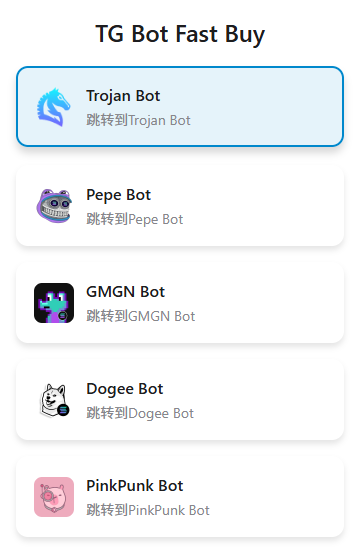
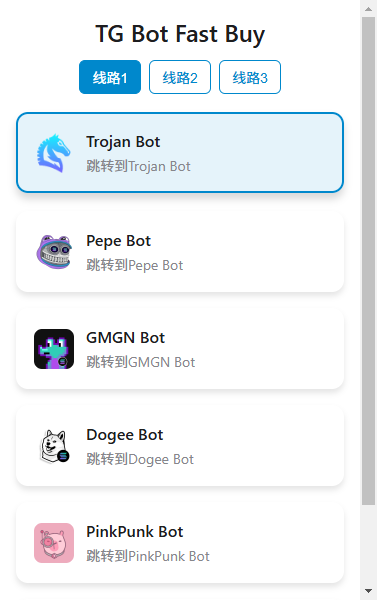
修改主界面图片，增加光子扫链截图

diff --git a/README.md b/README.md
@@ -13,6 +13,9 @@
 ![gmgn K线界面](images/2025-02-07-19-21-34.png)
 5. 添加了对neo.bullx.io的支持
 ![neo.bullx扫链界面](images/2025-02-07-22-45-15.png)
+6. 添加了对光子的支持
+![光子扫链界面](images/2025-02-08-23-32-48.png)
+![光子 K线界面](images/2025-02-08-23-33-40.png)
 
 ## 使用教程
 1. 下载扩展文件夹，解压后将文件夹重命名为`tgFastBuy`
